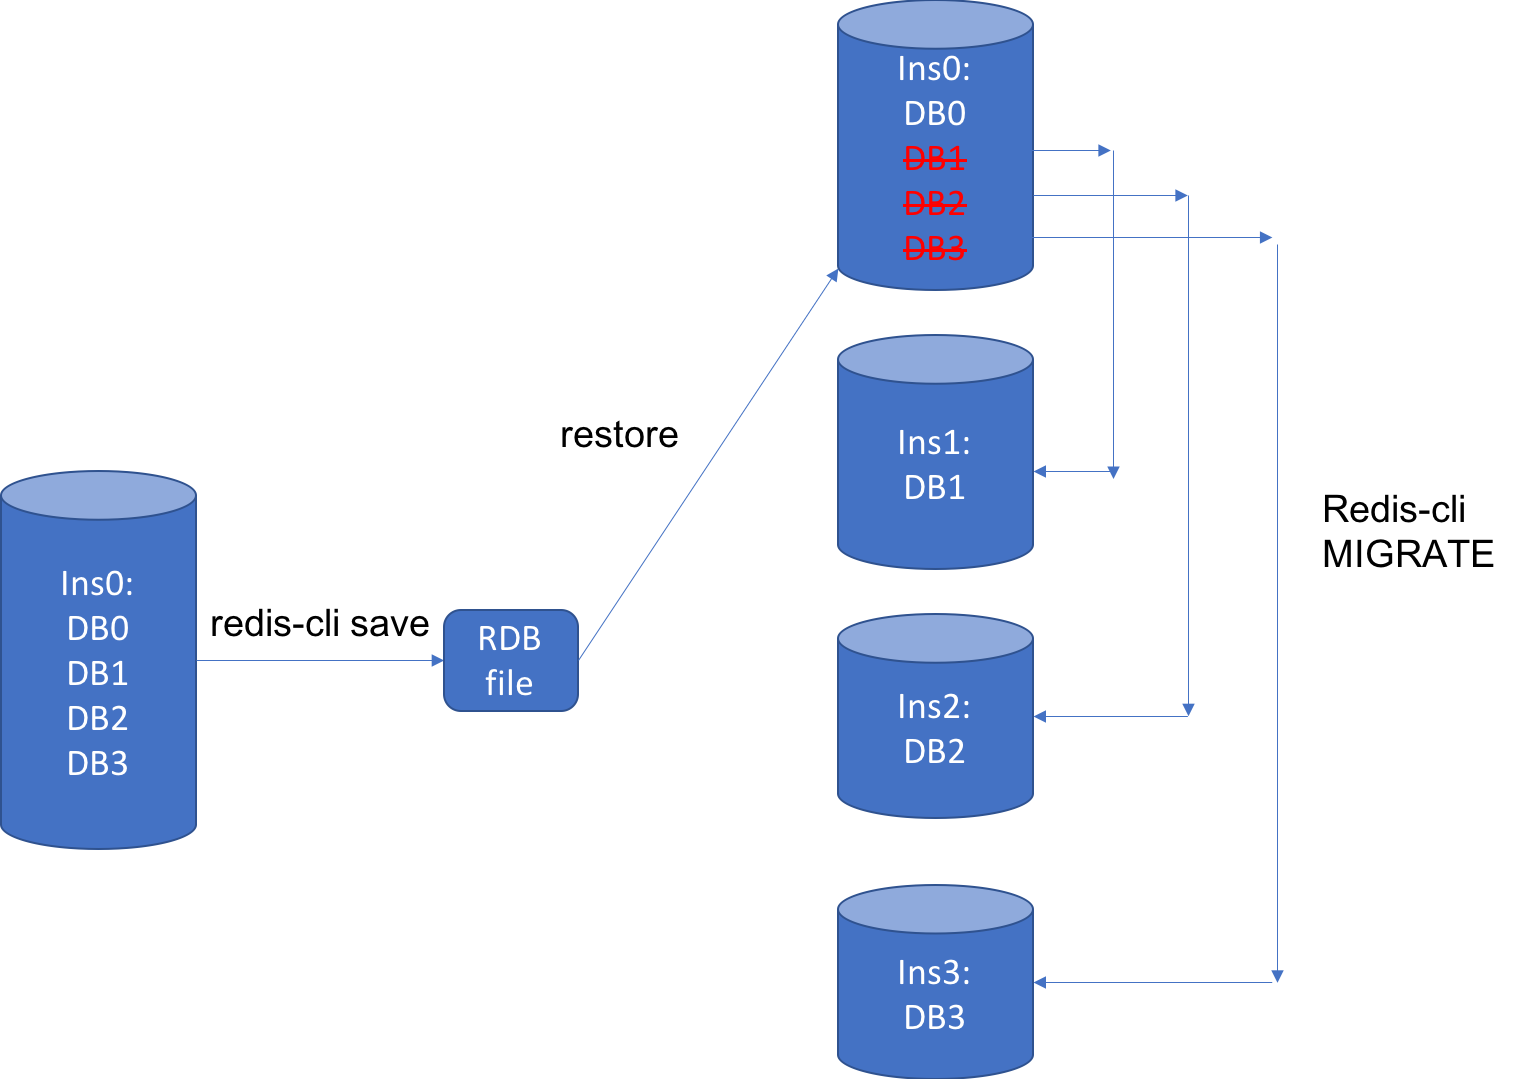
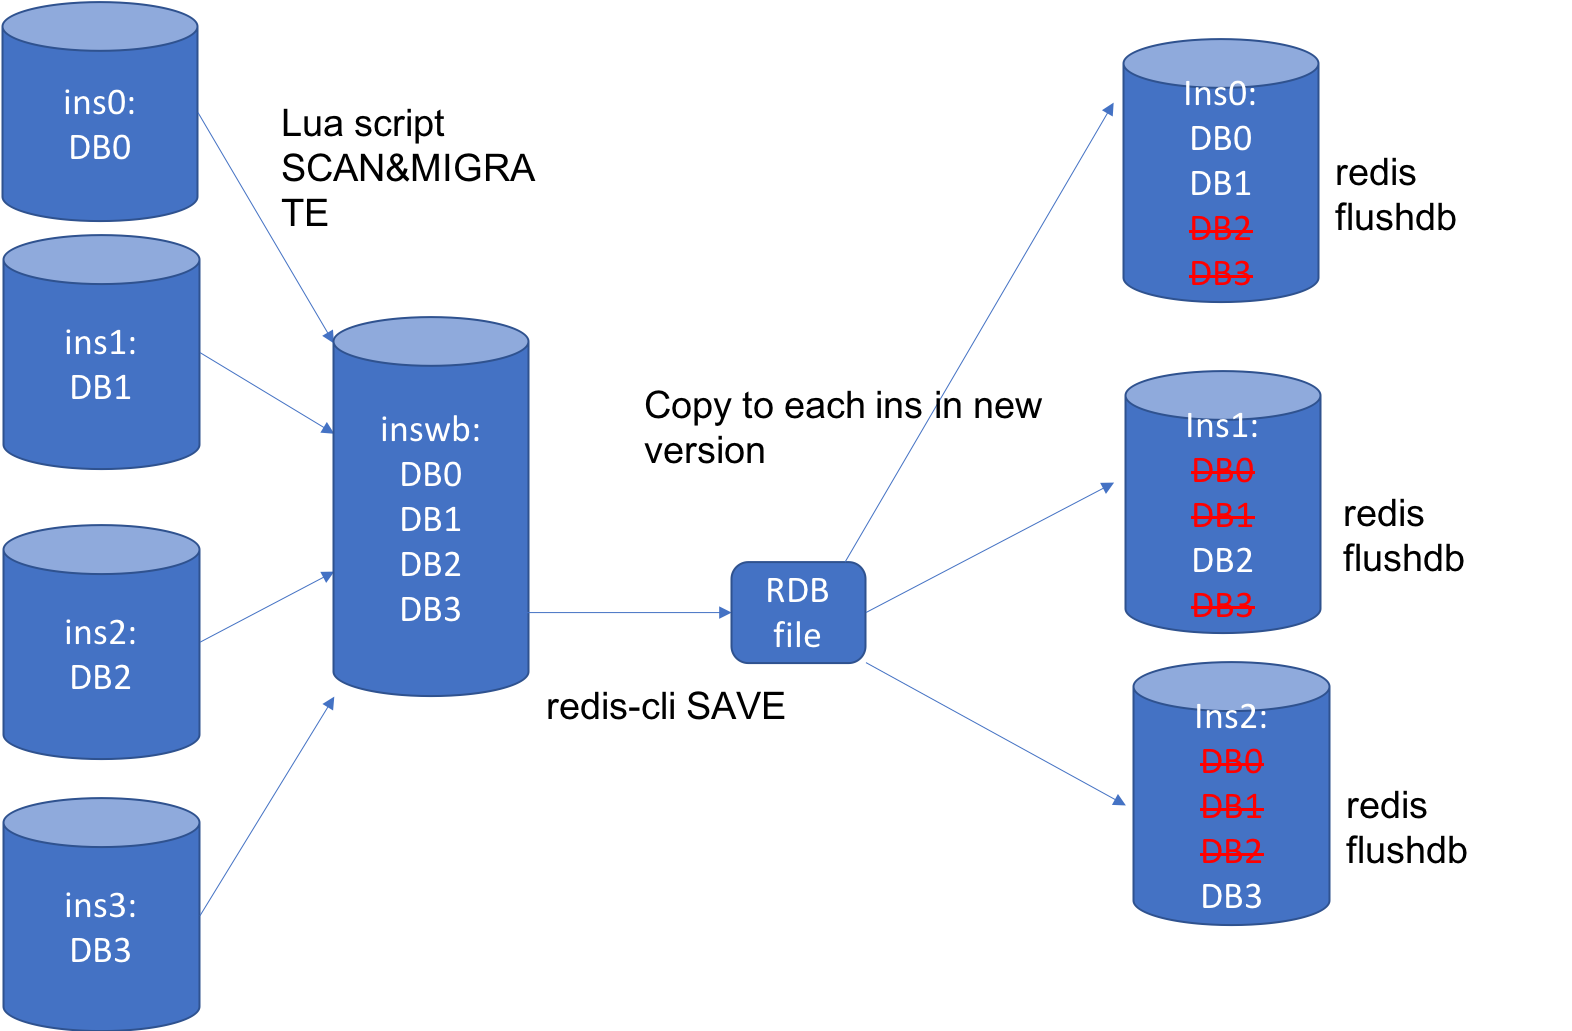
[MultiDB] update warmboot design

diff --git a/doc/database/multi_database_instances.md b/doc/database/multi_database_instances.md
@@ -209,7 +209,7 @@ LRANGE_100 (first 100 elements): 6383.25 requests per second
 LRANGE_300 (first 300 elements): 2669.09 requests per second
 LRANGE_500 (first 450 elements): 1868.22 requests per second
 LRANGE_600 (first 600 elements): 1496.40 requests per second
-MSET (10 keys): 5550.62 requests per second 
+MSET (10 keys): 5550.62 requests per second
 ```
 
         __So I don't think redis cluster is a good way to solve the problem of splitting databases into multiple redis instances
@@ -554,12 +554,12 @@ func init() {
                 Target2RedisDb[dbName] = redisDb
         }
     }
-} 
+}
 ```
 
 In the new Design, we added a new package at sonic\_db\_config/db\_config.go, which parse database\_config.json file and provided get APIs.
 
-Similar to C++ changes, when new package imported, database\_config.json file information is read and stored. 
+Similar to C++ changes, when new package imported, database\_config.json file information is read and stored.
 
 Later we use these get API to get the information when we want to use it.
 
@@ -734,7 +734,7 @@ For the script, today we just use the default redis instance and there is no -p/
 
 The scripts is used in shell, python, c and c++ system call, we need to change all these places.
 
-We added a new sonic-db-cli which is written in python, the function is the same as redis-cli, the only difference is to accept db name as the first parameter instead of '-n x' for redis-cli. 
+We added a new sonic-db-cli which is written in python, the function is the same as redis-cli, the only difference is to accept db name as the first parameter instead of '-n x' for redis-cli.
 
 Form the db name, we can using exising python swsssdk library to look up the db information and use them. This new sonic-db-cli is in swsssdk as well and will be installed where ever swsssdk is installed.
 
@@ -820,9 +820,11 @@ EXEC_WITH_ERROR_THROW(cmd, res);
 
 ## Programming Language
 
-One suggestion during SONiC meeting discussion is to write one DB_ID <-> DB_INST mapping function in C++, and then to generate the codes in Python and Go, which could avoid introduce the same mapping function for all the programming languages. 
+One suggestion during SONiC meeting discussion is to write one DB_ID <-> DB_INST mapping function in C++, and then to generate the codes in Python and Go, which could avoid introduce the same mapping function for all the programming languages.
 
 ## Warm-reboot
+
+### *Current implementation*
 
 We know that warm-reboot is supported in SONiC now.
 Today the single database instance is using "redis-cli save" in fast-reboot script to store data as RDB file.
@@ -830,26 +832,119 @@ Then restore it when database instance is up.
 
 ![center](./img/db_redis_save.png)
 
-For the new design, the database instances is changed in new version, so after the warm-reboot, it will restore data into the single default database only. We need to do something to move to databases into correct database instances according to the database\_config.json. I am think we can use "redis-cli MIGRATE" to place the database into the correct instance after database restore but before we start to use it.
-```powershell
-redis-cli -n 3 --raw KEYS '*' | xargs redis-cli -n 3 MIGRATE 127.0.0.1 6380 "" 1 5000 KEYS
-```
+### *Proposed new implementation*
 
-OR we need to restore all the new isntances with the same data in old isntances before warm-reboot and delete the unecessary ones via rdb files.
+The redis instances & databases mapping may change between versions, that means before warmboot, we may have, for example, 3 redis instances and after warmboot, the number of redis instances may be, for example, 2 or 4. This makes the original 3 saved rdb files CANNOT restore the 2 or 4 redis instances directly.  We need to do something to restore data based on the new redis instances & database mapping.
 
-Discussed with Guohan's team offline, we won't support all the warmreboot cases when the database\_config.json file changed. We only want to accept the database instances spliting situation. For example , before warmrebbot, there is two instances and after there are four isntances, we can use rdb file to restoring all data in four instances and then write a logic to flush unnecessary database on each instance. This logic will be done in a new script which will be executed after warmreboot database restoration.  
+Today we already assigned each database name with a unique number (APPL_DB 0, ASIC_DB 1, ...) and assign them into different redis instances in design. This makes it possible to migrate all data in all redis instances into one redis instance without any conflicts. Then we can handle this single redis instance the same as what we did today, since today we are only use single redis instance. So the poposed new idea is as below steps:
+
+1. When we normally start multiple redis instances, besides all the necessary and used redis isntances, we add one more unused/spare redis instance configration in database_config.json. This unused/spare redis instance is not accessed by any application and it is empty.
+2. When we try to do warmboot, we migrate the data on all used redis instances into the unused/spare/empty redis instance. In this way all the data are in one redis instance and we can issue "redis-cli save" now to generate a single rdb file containing all the data. After this point, everything is the same as what we did today for single redis instance,  copying rdb file to WARM_DIR and so on.
+3. When loading new images during warmboot, we copy the single full data rdb file to each instance's rdb file path as what we did today. Then all the instances have the full data after startup, each instance can access the data as usual based on the redis instances & databases mapping in database_config.json. The unused data could be deleted via "redis-cli flushdb".
+4. At this point, all the data are restored based on the new redis instance & database mapping. In this way, we don't need to find the delta between configurations and could handle all redis instances&database mapping cases.
+
+Below shows an example:
+
+- [x] Before warmboot, there are four redis instances and the mapping as shown.
+- [x] During warmboot, migrating all data into one redis intance and save rdb file.
+- [x] In new image, there are only three instances and after startup, each instances has full data. But ins0 only use DB0&DB1 based on configration in database_config.json, DB2&DB3 are never used and we can flushdb them.
 
 ![center](./img/db_restore_new.png)
 
+Now we see, the extra step for the new implementation is migrating all data into one redis instance and the "flushdb" operations after new redis instances started.
 
-1. we need to only allow warm-reboot/upgrade from one version to another version. In the new image, we can handle the warm-reboot/upgrading accordingly and know where to migrate the database since the "delta" between old and new database_config.json can be calculated. We can write a script to handle this case.
-2. other idea is welcome
+- For "flushdb" operations, it takes ~0.3 second. If we want to save this time as well , we can delay this operations until warmboot is done, otherwise we can add these operations during warmboot.
+
+- For the data migration, I did some test on local.
+  - [x] Third part script like redis-dump/load is very slow, usually takes **~23s** when data size is **~40K**
+  - [x] redis-cli cmd shown as below works better, takes **~3s** when data size is **~40K**
+
+  ```powershell
+redis-cli -n 3 --raw KEYS '*' | xargs redis-cli -n 3 MIGRATE 127.0.0.1 6380 "" 1 5000 KEYS
+  ```
+
+  - [x] I also tried lua script as below, this way is the best, it takes about **~1s **when data size is **~40K** and **~2s** when data size is **~100K**.  Sample codes migratedb as below:
+
+  ```python
+  #!/usr/bin/python
+  from __future__ import print_function
+  import sys
+  import swsssdk
+  import redis
+
+  dblists = swsssdk.SonicDBConfig.get_dblist()
+  for dbname in dblists:
+      dbsocket = swsssdk.SonicDBConfig.get_socket(dbname)
+      #dbport = swsssdk.SonicDBConfig.get_port(dbname)
+      dbid = swsssdk.SonicDBConfig.get_dbid(dbname)
+      dbhost = swsssdk.SonicDBConfig.get_hostname(dbname)
+
+      r = redis.Redis(host=dbhost, unix_socket_path=dbsocket, db=dbid)
+
+      script = """
+          local cursor = 0;
+          local round = 0;
+          repeat
+              local  dat = redis.call('SCAN', cursor, 'COUNT', 7000);
+  	    cursor = dat[1];
+  	    round = round + 1;
+              redis.call('MIGRATE', KEYS[1], KEYS[2], '', KEYS[3], 5000, 'REPLACE', 'KEYS', unpack(dat[2]));
+          until cursor == '0';
+          return round;
+      """
+      r.eval(script, 3, '127.0.0.1', 6381, dbid)
+
+  ```
+
+  For example, migrating below four instances into one instance, total **data size ~100K, costs ~2.1s**
+
+  ```shell
+  admin@ASW-7005:~$ redis-cli -p 6379 info | grep Keyspace -A 10
+  # Keyspace
+  db0:keys=40012,expires=0,avg_ttl=0
+  db4:keys=99,expires=0,avg_ttl=0
+  db5:keys=3145,expires=0,avg_ttl=0
+  db6:keys=365,expires=0,avg_ttl=0
+
+  admin@ASW-7005:~$ redis-cli -p 6380 info | grep Keyspace -A 10
+  # Keyspace
+  db1:keys=42834,expires=0,avg_ttl=0
+
+  admin@ASW-7005:~$ redis-cli -p 6381 info | grep Keyspace -A 10
+  # Keyspace
+
+  admin@ASW-7005:~$ redis-cli -p 6382 info | grep Keyspace -A 10
+  # Keyspace
+  db2:keys=7191,expires=0,avg_ttl=0
+
+  admin@ASW-7005:~$ redis-cli -p 6383 info | grep Keyspace -A 10
+  # Keyspace
+  db3:keys=103,expires=0,avg_ttl=0
+
+  admin@ASW-7005:~$ date +"%T.%N" ; sudo /etc/sonic/migratedb ;  date +"%T.%N"
+  23:15:08.350089582
+  23:15:10.486322265
+
+  admin@ASW-7005:~$ redis-cli -p 6381 info | grep Keyspace -A 10
+  # Keyspace
+  db0:keys=40012,expires=0,avg_ttl=0
+  db1:keys=42834,expires=0,avg_ttl=0
+  db2:keys=7191,expires=0,avg_ttl=0
+  db3:keys=103,expires=0,avg_ttl=0
+  db4:keys=99,expires=0,avg_ttl=0
+  db5:keys=3145,expires=0,avg_ttl=0
+  db6:keys=365,expires=0,avg_ttl=0
+  ```
+
+
+
+So this method is good for warmboot database backup, we just need to add above python script to merge all data into one redis isntance and save data. The other changes are minor like copying files ....
 
 ## Platform VS
 
-platform vs is not changed at this moment. For the vs tests, they are still using one database instance since platform vs database configuration is different from that at database-docker. We provided database\_config.json in vs docker at /var/run/redis/sonic-db/, hence all the application can read database information. For vs test, it is enough to use on database instance at this moment. 
+platform vs is not changed at this moment. For the vs tests, they are still using one database instance since platform vs database configuration is different from that at database-docker. We provided database\_config.json in vs docker at /var/run/redis/sonic-db/, hence all the application can read database information. For vs test, it is enough to use on database instance at this moment.
 
-From the feedback in SONiC meeting, docker platform vs is suggested to have multiple database instances as well.  
+From the feedback in SONiC meeting, docker platform vs is suggested to have multiple database instances as well.
 
 ## Other unit testing
 
